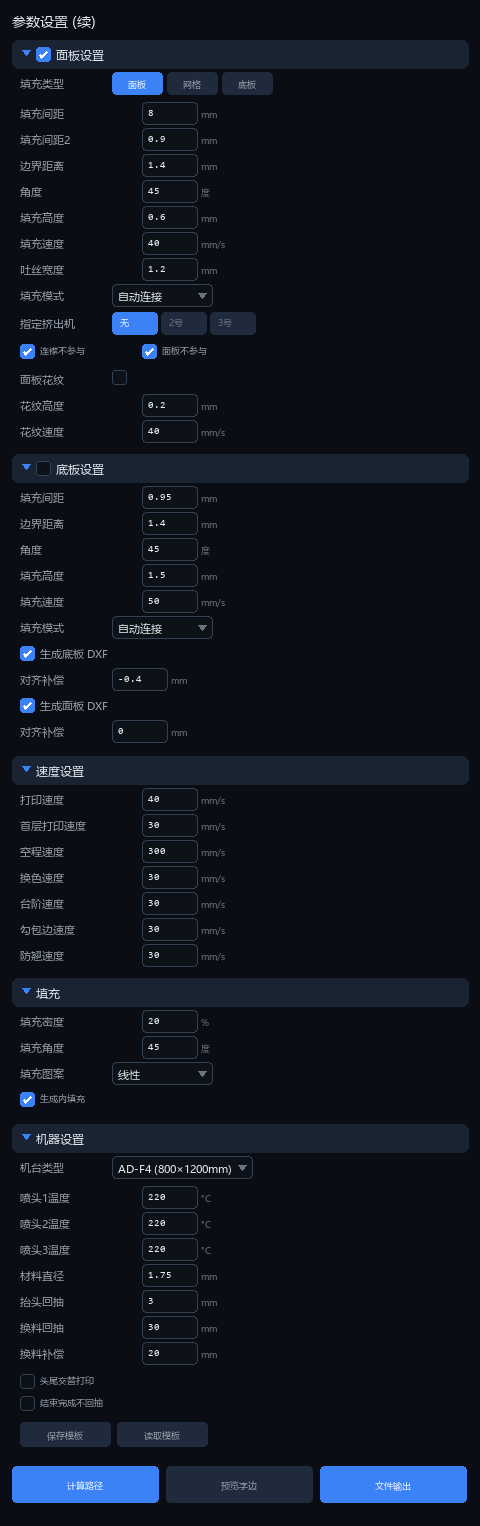
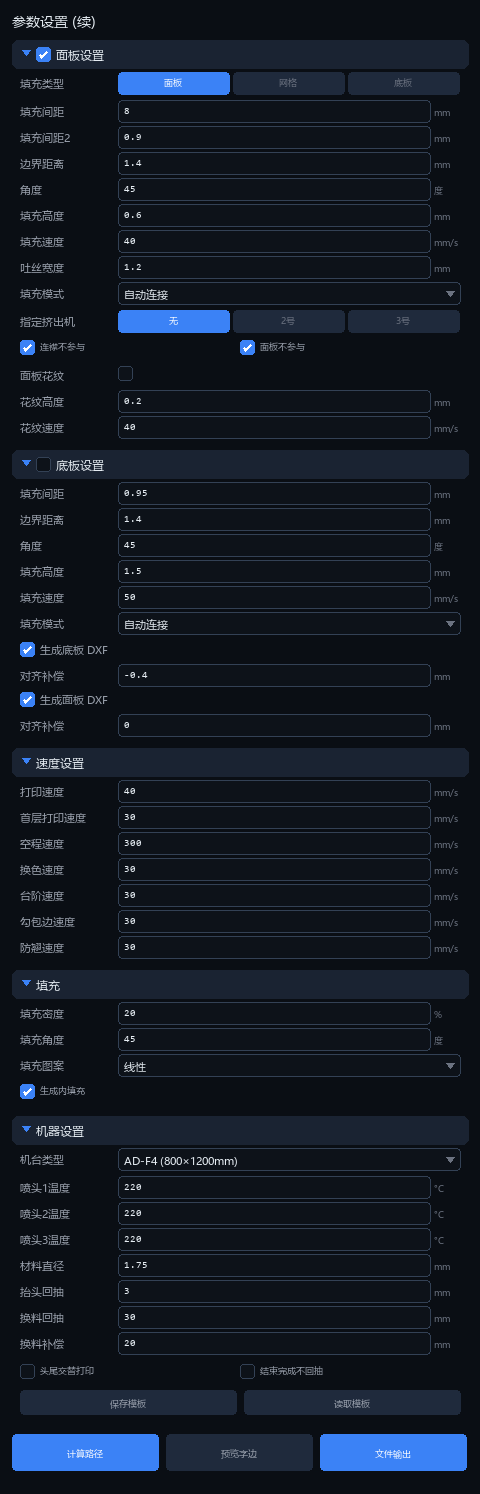
feat: 参数设置界面布局优化，元素充分利用宽度
- 输入框、单选按钮、下拉框延伸到右边界
- 新增 draw_radio_row 和 draw_dropdown_row 方法
- 按钮等分宽度布局
- 复选框行等分布局

diff --git a/scripts/generate_ui_params.py b/scripts/generate_ui_params.py
@@ -106,16 +106,49 @@ class ParamsRenderer:
         text_y = y + (h - 10) // 2
         self.draw_text(text_x, text_y, text, font_small, (255, 255, 255) if primary or color else C["text_secondary"])
 
-    def draw_radio_group(self, x, y, options, selected=0, btn_w=55, btn_h=22):
+    def draw_radio_group(self, x, y, options, selected=0, btn_w=None, btn_h=22, total_w=None):
         gap = 4
+        # 如果没有指定按钮宽度，则根据总宽度等分
+        if btn_w is None and total_w is not None:
+            btn_w = (total_w - gap * (len(options) - 1)) // len(options)
+        elif btn_w is None:
+            btn_w = 55  # 默认宽度
+
         for i, opt in enumerate(options):
             bx = x + i * (btn_w + gap)
             if i == selected:
                 self.draw_rounded_rect(bx, y, btn_w, btn_h, 4, fill=C["accent_primary"])
-                self.draw_text(bx + 8, y + 4, opt, font_small, (255, 255, 255))
+                # 文字居中
+                bbox = self.draw.textbbox((0, 0), opt, font=font_small)
+                text_w = bbox[2] - bbox[0]
+                text_x = bx + (btn_w - text_w) // 2
+                self.draw_text(text_x, y + 4, opt, font_small, (255, 255, 255))
             else:
                 self.draw_rounded_rect(bx, y, btn_w, btn_h, 4, fill=C["bg_elevated"])
-                self.draw_text(bx + 8, y + 4, opt, font_small, C["text_muted"])
+                bbox = self.draw.textbbox((0, 0), opt, font=font_small)
+                text_w = bbox[2] - bbox[0]
+                text_x = bx + (btn_w - text_w) // 2
+                self.draw_text(text_x, y + 4, opt, font_small, C["text_muted"])
+
+    def draw_radio_row(self, label, options, selected=0):
+        """绘制带标签的单选按钮行"""
+        x = self.margin + 8
+        label_w = 90
+        self.draw_text(x, self.y + 4, label, font_label, C["text_secondary"])
+        radio_x = self.margin + label_w + 16
+        radio_w = self.content_w - label_w - 24
+        self.draw_radio_group(radio_x, self.y, options, selected, total_w=radio_w)
+        self.y += 28
+
+    def draw_dropdown_row(self, label, value):
+        """绘制带标签的下拉框行"""
+        x = self.margin + 8
+        label_w = 90
+        self.draw_text(x, self.y + 4, label, font_label, C["text_secondary"])
+        dropdown_x = self.margin + label_w + 16
+        dropdown_w = self.content_w - label_w - 24
+        self.draw_dropdown(dropdown_x, self.y, dropdown_w, 22, value)
+        self.y += 28
 
     def draw_section_header(self, title, expanded=True, has_checkbox=False, checked=False):
         x = self.margin
@@ -139,10 +172,15 @@ class ParamsRenderer:
         self.draw_text(text_x, self.y + 7, title, font_section, C["text_primary"])
         self.y += 32
 
-    def draw_param_row(self, label, value, unit="", input_w=55):
+    def draw_param_row(self, label, value, unit="", input_w=None):
         x = self.margin + 8
+        label_w = 90  # 标签区域宽度
         self.draw_text(x, self.y + 4, label, font_label, C["text_secondary"])
-        input_x = self.margin + 130
+        input_x = self.margin + label_w + 16
+        # 输入框延伸到右边界，留出单位空间
+        if input_w is None:
+            unit_space = 30 if unit else 8
+            input_w = self.content_w - label_w - 24 - unit_space
         self.draw_input(input_x, self.y, input_w, 22, value, unit)
         self.y += 26
 
@@ -236,14 +274,10 @@ def generate_part1():
     renderer.draw_section_header("字壳工艺", expanded=True)
 
     # 打印模式
-    renderer.draw_text(m + 8, renderer.y + 4, "打印模式", font_label, C["text_secondary"])
-    renderer.draw_radio_group(m + 100, renderer.y, ["镜像打印", "正常打印"], selected=1)
-    renderer.y += 28
+    renderer.draw_radio_row("打印模式", ["镜像打印", "正常打印"], selected=1)
 
     # 字边类型
-    renderer.draw_text(m + 8, renderer.y + 4, "字边类型", font_label, C["text_secondary"])
-    renderer.draw_radio_group(m + 100, renderer.y, ["直边", "斜边", "异形边"], selected=1, btn_w=50)
-    renderer.y += 30
+    renderer.draw_radio_row("字边类型", ["直边", "斜边", "异形边"], selected=1)
 
     params_1 = [
         ("字壳高度", "30", "mm"),
@@ -352,9 +386,7 @@ def generate_part1():
     # ============================================
     renderer.draw_section_header("防翘裙边", expanded=True, has_checkbox=True, checked=True)
 
-    renderer.draw_text(m + 8, renderer.y + 4, "防翘位置", font_label, C["text_secondary"])
-    renderer.draw_radio_group(m + 100, renderer.y, ["外防翘", "内防翘"], selected=0)
-    renderer.y += 28
+    renderer.draw_radio_row("防翘位置", ["外防翘", "内防翘"], selected=0)
 
     params_5 = [
         ("压线宽度", "0.5", "mm"),
@@ -374,9 +406,7 @@ def generate_part1():
     # ============================================
     renderer.draw_section_header("连襟字", expanded=True, has_checkbox=True, checked=False)
 
-    renderer.draw_text(m + 8, renderer.y + 4, "连襟类型", font_label, C["text_secondary"])
-    renderer.draw_radio_group(m + 100, renderer.y, ["三角形", "菱形"], selected=0)
-    renderer.y += 28
+    renderer.draw_radio_row("连襟类型", ["三角形", "菱形"], selected=0)
 
     params_6 = [
         ("连襟宽度", "15", "mm"),
@@ -394,15 +424,16 @@ def generate_part1():
     # ============================================
     renderer.draw_section_header("包边勾边", expanded=True)
 
+    # 勾边/包边有效 - 使用全宽布局
+    check_row_w = renderer.content_w - 16
+    half_w = check_row_w // 2
     renderer.draw_text(m + 8, renderer.y + 2, "勾边有效", font_label, C["text_secondary"])
     renderer.draw_checkbox(m + 80, renderer.y, True, 14)
-    renderer.draw_text(m + 150, renderer.y + 2, "包边有效", font_label, C["text_secondary"])
-    renderer.draw_checkbox(m + 220, renderer.y, False, 14)
+    renderer.draw_text(m + 8 + half_w, renderer.y + 2, "包边有效", font_label, C["text_secondary"])
+    renderer.draw_checkbox(m + 80 + half_w, renderer.y, False, 14)
     renderer.y += 24
 
-    renderer.draw_text(m + 8, renderer.y + 4, "位置", font_label, C["text_secondary"])
-    renderer.draw_radio_group(m + 100, renderer.y, ["内部", "外部"], selected=0)
-    renderer.y += 28
+    renderer.draw_radio_row("位置", ["内部", "外部"], selected=0)
 
     params_7 = [
         ("勾边高度", "1.2", "mm"),
@@ -434,11 +465,8 @@ def generate_part2():
     # ============================================
     renderer.draw_section_header("面板设置", expanded=True, has_checkbox=True, checked=True)
 
-    renderer.draw_text(m + 8, renderer.y + 4, "填充类型", font_label, C["text_secondary"])
-    renderer.draw_button(m + 100, renderer.y, 50, 22, "面板", primary=True)
-    renderer.draw_button(m + 155, renderer.y, 50, 22, "网格")
-    renderer.draw_button(m + 210, renderer.y, 50, 22, "底板")
-    renderer.y += 30
+    # 填充类型 - 使用等分按钮
+    renderer.draw_radio_row("填充类型", ["面板", "网格", "底板"], selected=0)
 
     params_panel = [
         ("填充间距", "8", "mm"),
@@ -452,23 +480,22 @@ def generate_part2():
     for label, value, unit in params_panel:
         renderer.draw_param_row(label, value, unit)
 
-    renderer.draw_text(m + 8, renderer.y + 4, "填充模式", font_label, C["text_secondary"])
-    renderer.draw_dropdown(m + 100, renderer.y, 100, 22, "自动连接")
-    renderer.y += 28
+    renderer.draw_dropdown_row("填充模式", "自动连接")
 
-    renderer.draw_text(m + 8, renderer.y + 4, "指定挤出机", font_label, C["text_secondary"])
-    renderer.draw_radio_group(m + 100, renderer.y, ["无", "2号", "3号"], selected=0, btn_w=45)
-    renderer.y += 30
+    renderer.draw_radio_row("指定挤出机", ["无", "2号", "3号"], selected=0)
 
+    # 复选框行 - 等分布局
+    check_row_w = renderer.content_w - 16
+    half_w = check_row_w // 2
     renderer.draw_checkbox(m + 8, renderer.y + 2, True, 14)
     renderer.draw_text(m + 28, renderer.y + 2, "连襟不参与", font_small, C["text_secondary"])
-    renderer.draw_checkbox(m + 130, renderer.y + 2, True, 14)
-    renderer.draw_text(m + 150, renderer.y + 2, "面板不参与", font_small, C["text_secondary"])
+    renderer.draw_checkbox(m + 8 + half_w, renderer.y + 2, True, 14)
+    renderer.draw_text(m + 28 + half_w, renderer.y + 2, "面板不参与", font_small, C["text_secondary"])
     renderer.y += 28
 
     # 花纹设置
     renderer.draw_text(m + 8, renderer.y + 2, "面板花纹", font_label, C["text_secondary"])
-    renderer.draw_checkbox(m + 100, renderer.y, False, 14)
+    renderer.draw_checkbox(renderer.margin + 106, renderer.y, False, 14)
     renderer.y += 24
 
     params_pattern = [
@@ -495,27 +522,21 @@ def generate_part2():
     for label, value, unit in params_base:
         renderer.draw_param_row(label, value, unit)
 
-    renderer.draw_text(m + 8, renderer.y + 4, "填充模式", font_label, C["text_secondary"])
-    renderer.draw_dropdown(m + 100, renderer.y, 100, 22, "自动连接")
-    renderer.y += 28
+    renderer.draw_dropdown_row("填充模式", "自动连接")
 
     # 生成底板DXF
     renderer.draw_checkbox(m + 8, renderer.y + 2, True, 14)
     renderer.draw_text(m + 28, renderer.y + 2, "生成底板 DXF", font_label, C["text_secondary"])
     renderer.y += 24
 
-    renderer.draw_text(m + 8, renderer.y + 4, "对齐补偿", font_label, C["text_secondary"])
-    renderer.draw_input(m + 100, renderer.y, 55, 22, "-0.4", "mm")
-    renderer.y += 28
+    renderer.draw_param_row("对齐补偿", "-0.4", "mm")
 
     # 生成面板DXF
     renderer.draw_checkbox(m + 8, renderer.y + 2, True, 14)
     renderer.draw_text(m + 28, renderer.y + 2, "生成面板 DXF", font_label, C["text_secondary"])
     renderer.y += 24
 
-    renderer.draw_text(m + 8, renderer.y + 4, "对齐补偿", font_label, C["text_secondary"])
-    renderer.draw_input(m + 100, renderer.y, 55, 22, "0", "mm")
-    renderer.y += 28
+    renderer.draw_param_row("对齐补偿", "0", "mm")
 
     renderer.add_space()
 
@@ -550,9 +571,7 @@ def generate_part2():
     for label, value, unit in params_fill:
         renderer.draw_param_row(label, value, unit)
 
-    renderer.draw_text(m + 8, renderer.y + 4, "填充图案", font_label, C["text_secondary"])
-    renderer.draw_dropdown(m + 100, renderer.y, 100, 22, "线性")
-    renderer.y += 28
+    renderer.draw_dropdown_row("填充图案", "线性")
 
     renderer.draw_checkbox(m + 8, renderer.y + 2, True, 14)
     renderer.draw_text(m + 28, renderer.y + 2, "生成内填充", font_small, C["text_secondary"])
@@ -566,9 +585,7 @@ def generate_part2():
     renderer.draw_section_header("机器设置", expanded=True)
 
     # 机器类型
-    renderer.draw_text(m + 8, renderer.y + 4, "机台类型", font_label, C["text_secondary"])
-    renderer.draw_dropdown(m + 100, renderer.y, 140, 22, "AD-F4 (800×1200mm)")
-    renderer.y += 30
+    renderer.draw_dropdown_row("机台类型", "AD-F4 (800×1200mm)")
 
     params_machine = [
         ("喷头1温度", "220", "°C"),
@@ -584,18 +601,21 @@ def generate_part2():
 
     renderer.y += 4
 
-    # 其他选项
+    # 其他选项 - 等分布局
+    check_row_w = renderer.content_w - 16
+    half_w = check_row_w // 2
     renderer.draw_checkbox(m + 8, renderer.y + 2, False, 14)
     renderer.draw_text(m + 28, renderer.y + 2, "头尾交替打印", font_small, C["text_secondary"])
-    renderer.y += 22
-
-    renderer.draw_checkbox(m + 8, renderer.y + 2, False, 14)
-    renderer.draw_text(m + 28, renderer.y + 2, "结束完成不回抽", font_small, C["text_secondary"])
+    renderer.draw_checkbox(m + 8 + half_w, renderer.y + 2, False, 14)
+    renderer.draw_text(m + 28 + half_w, renderer.y + 2, "结束完成不回抽", font_small, C["text_secondary"])
     renderer.y += 28
 
-    # 模板操作
-    renderer.draw_button(m + 8, renderer.y, 90, 24, "保存模板")
-    renderer.draw_button(m + 105, renderer.y, 90, 24, "读取模板")
+    # 模板操作 - 等分按钮
+    btn_gap = 8
+    btn_count = 2
+    btn_w = (renderer.content_w - 16 - btn_gap * (btn_count - 1)) // btn_count
+    renderer.draw_button(m + 8, renderer.y, btn_w, 24, "保存模板")
+    renderer.draw_button(m + 8 + btn_w + btn_gap, renderer.y, btn_w, 24, "读取模板")
     renderer.y += 36
 
     renderer.add_space()
@@ -603,10 +623,12 @@ def generate_part2():
     # ============================================
     # 底部操作按钮
     # ============================================
-    btn_w = (renderer.content_w - 16) // 3
+    btn_gap = 8
+    btn_count = 3
+    btn_w = (renderer.content_w - btn_gap * (btn_count - 1)) // btn_count
     renderer.draw_button(m, renderer.y, btn_w, 36, "计算路径", primary=True)
-    renderer.draw_button(m + btn_w + 8, renderer.y, btn_w, 36, "预览字边")
-    renderer.draw_button(m + btn_w * 2 + 16, renderer.y, btn_w, 36, "文件输出", primary=True)
+    renderer.draw_button(m + btn_w + btn_gap, renderer.y, btn_w, 36, "预览字边")
+    renderer.draw_button(m + (btn_w + btn_gap) * 2, renderer.y, btn_w, 36, "文件输出", primary=True)
     renderer.y += 48
 
     img = renderer.crop_to_content()
